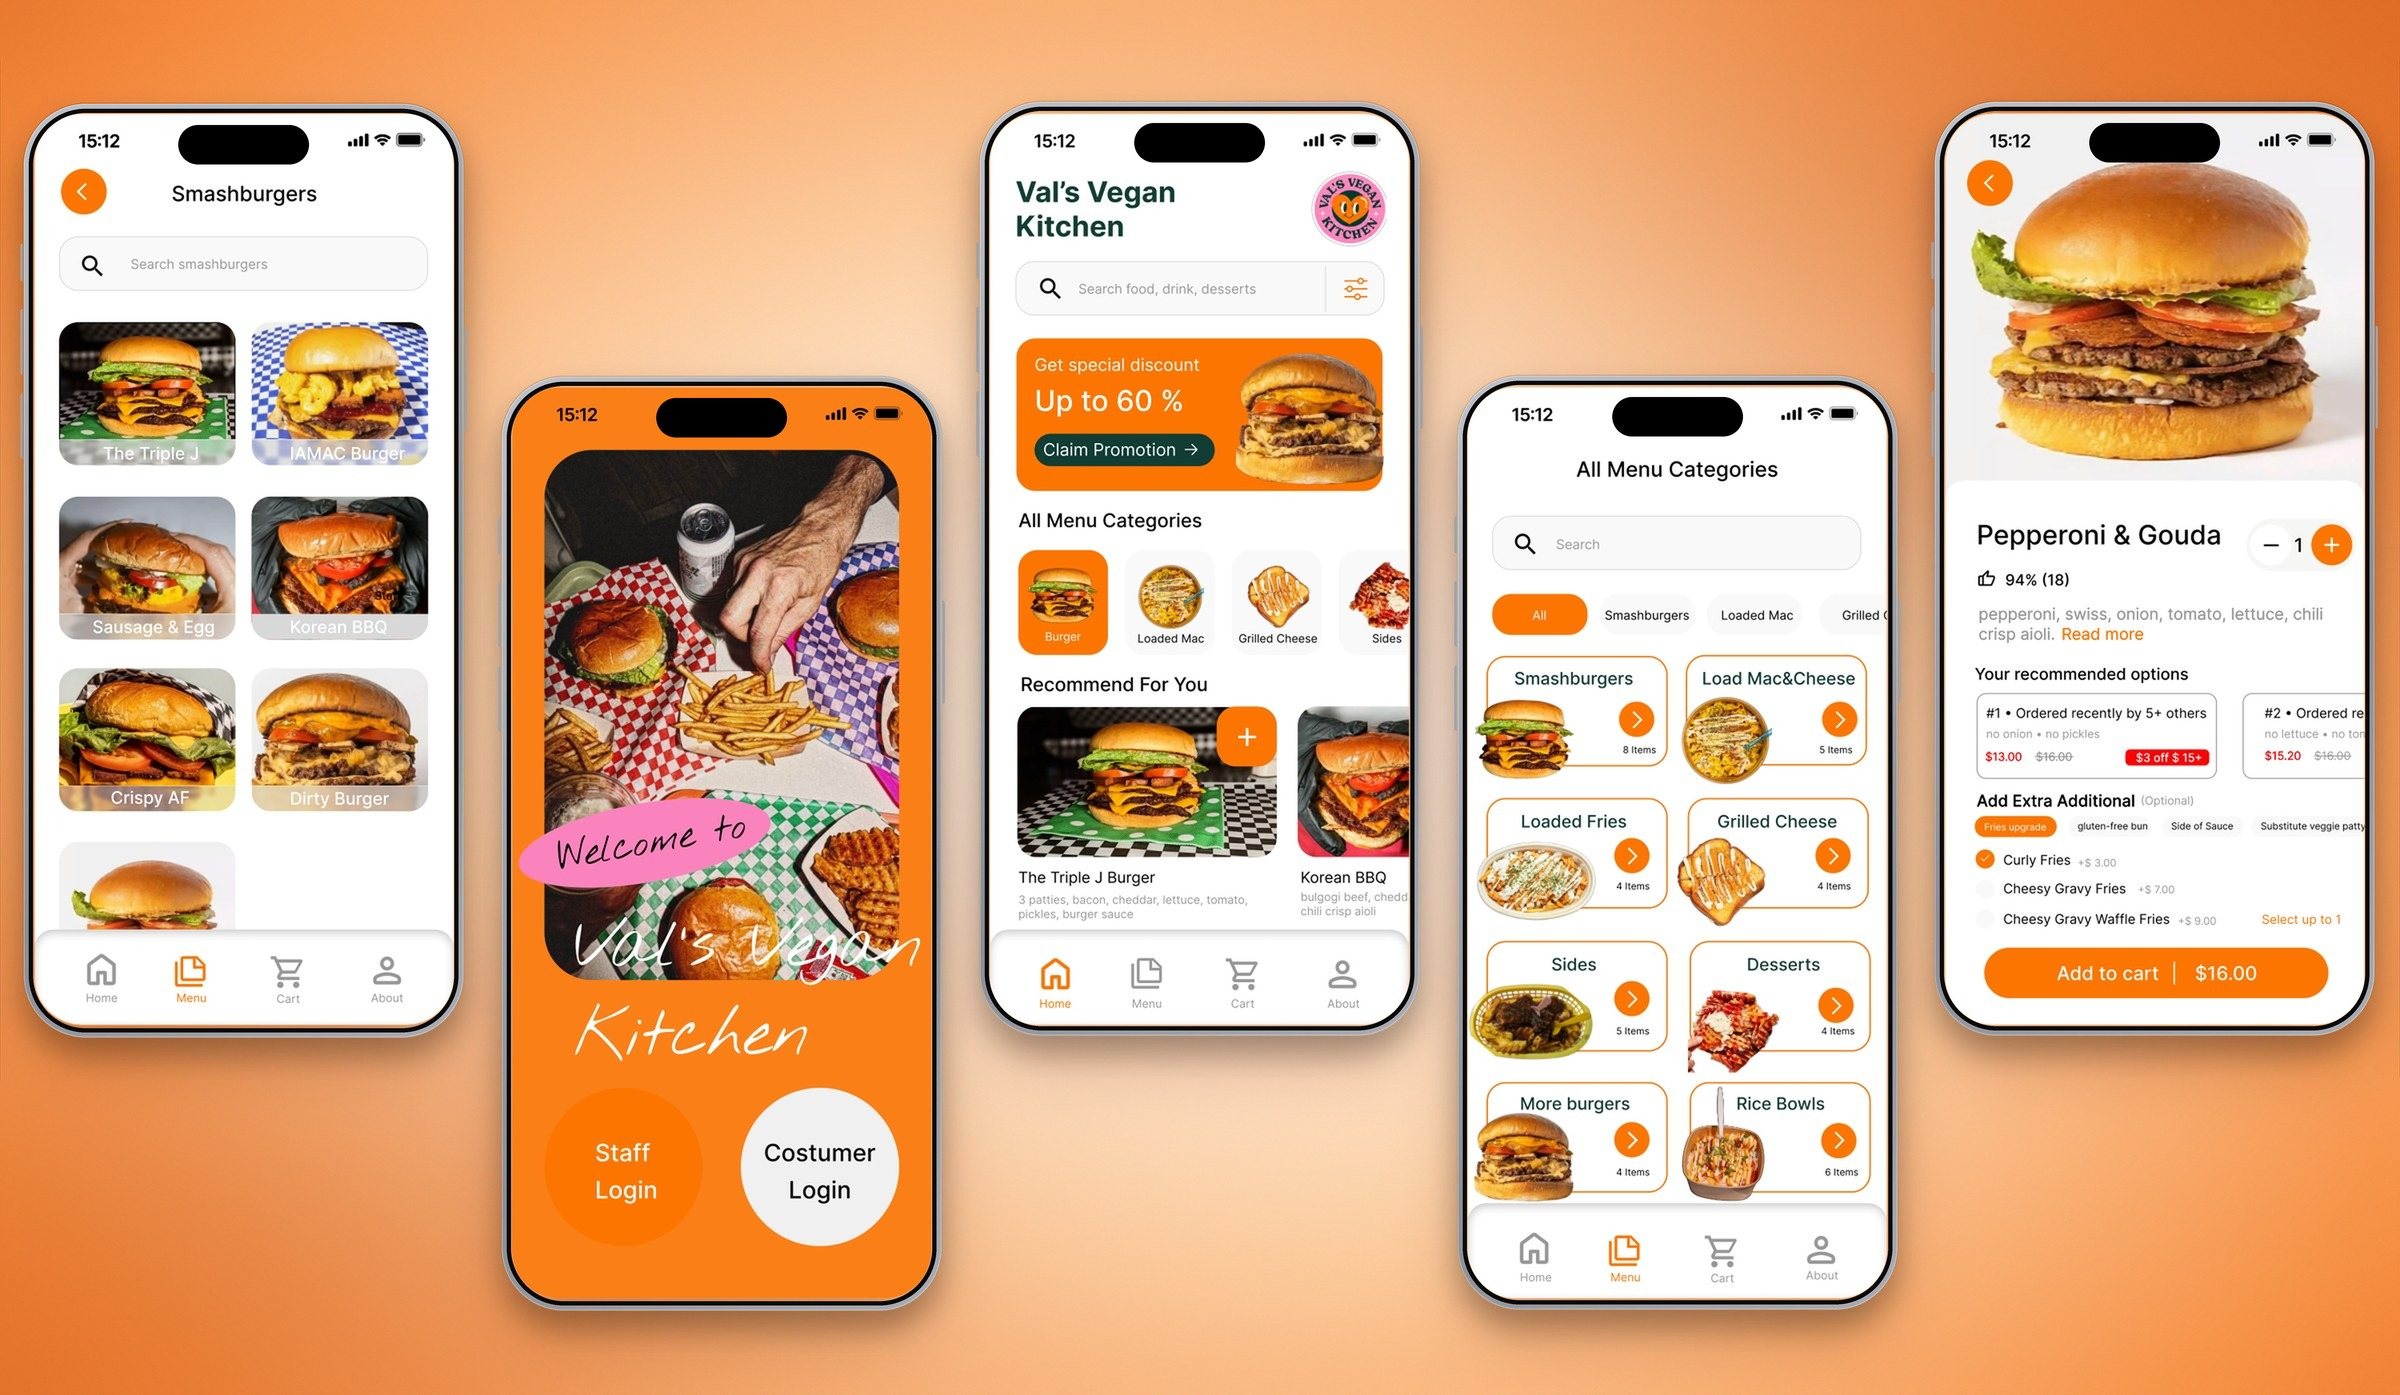
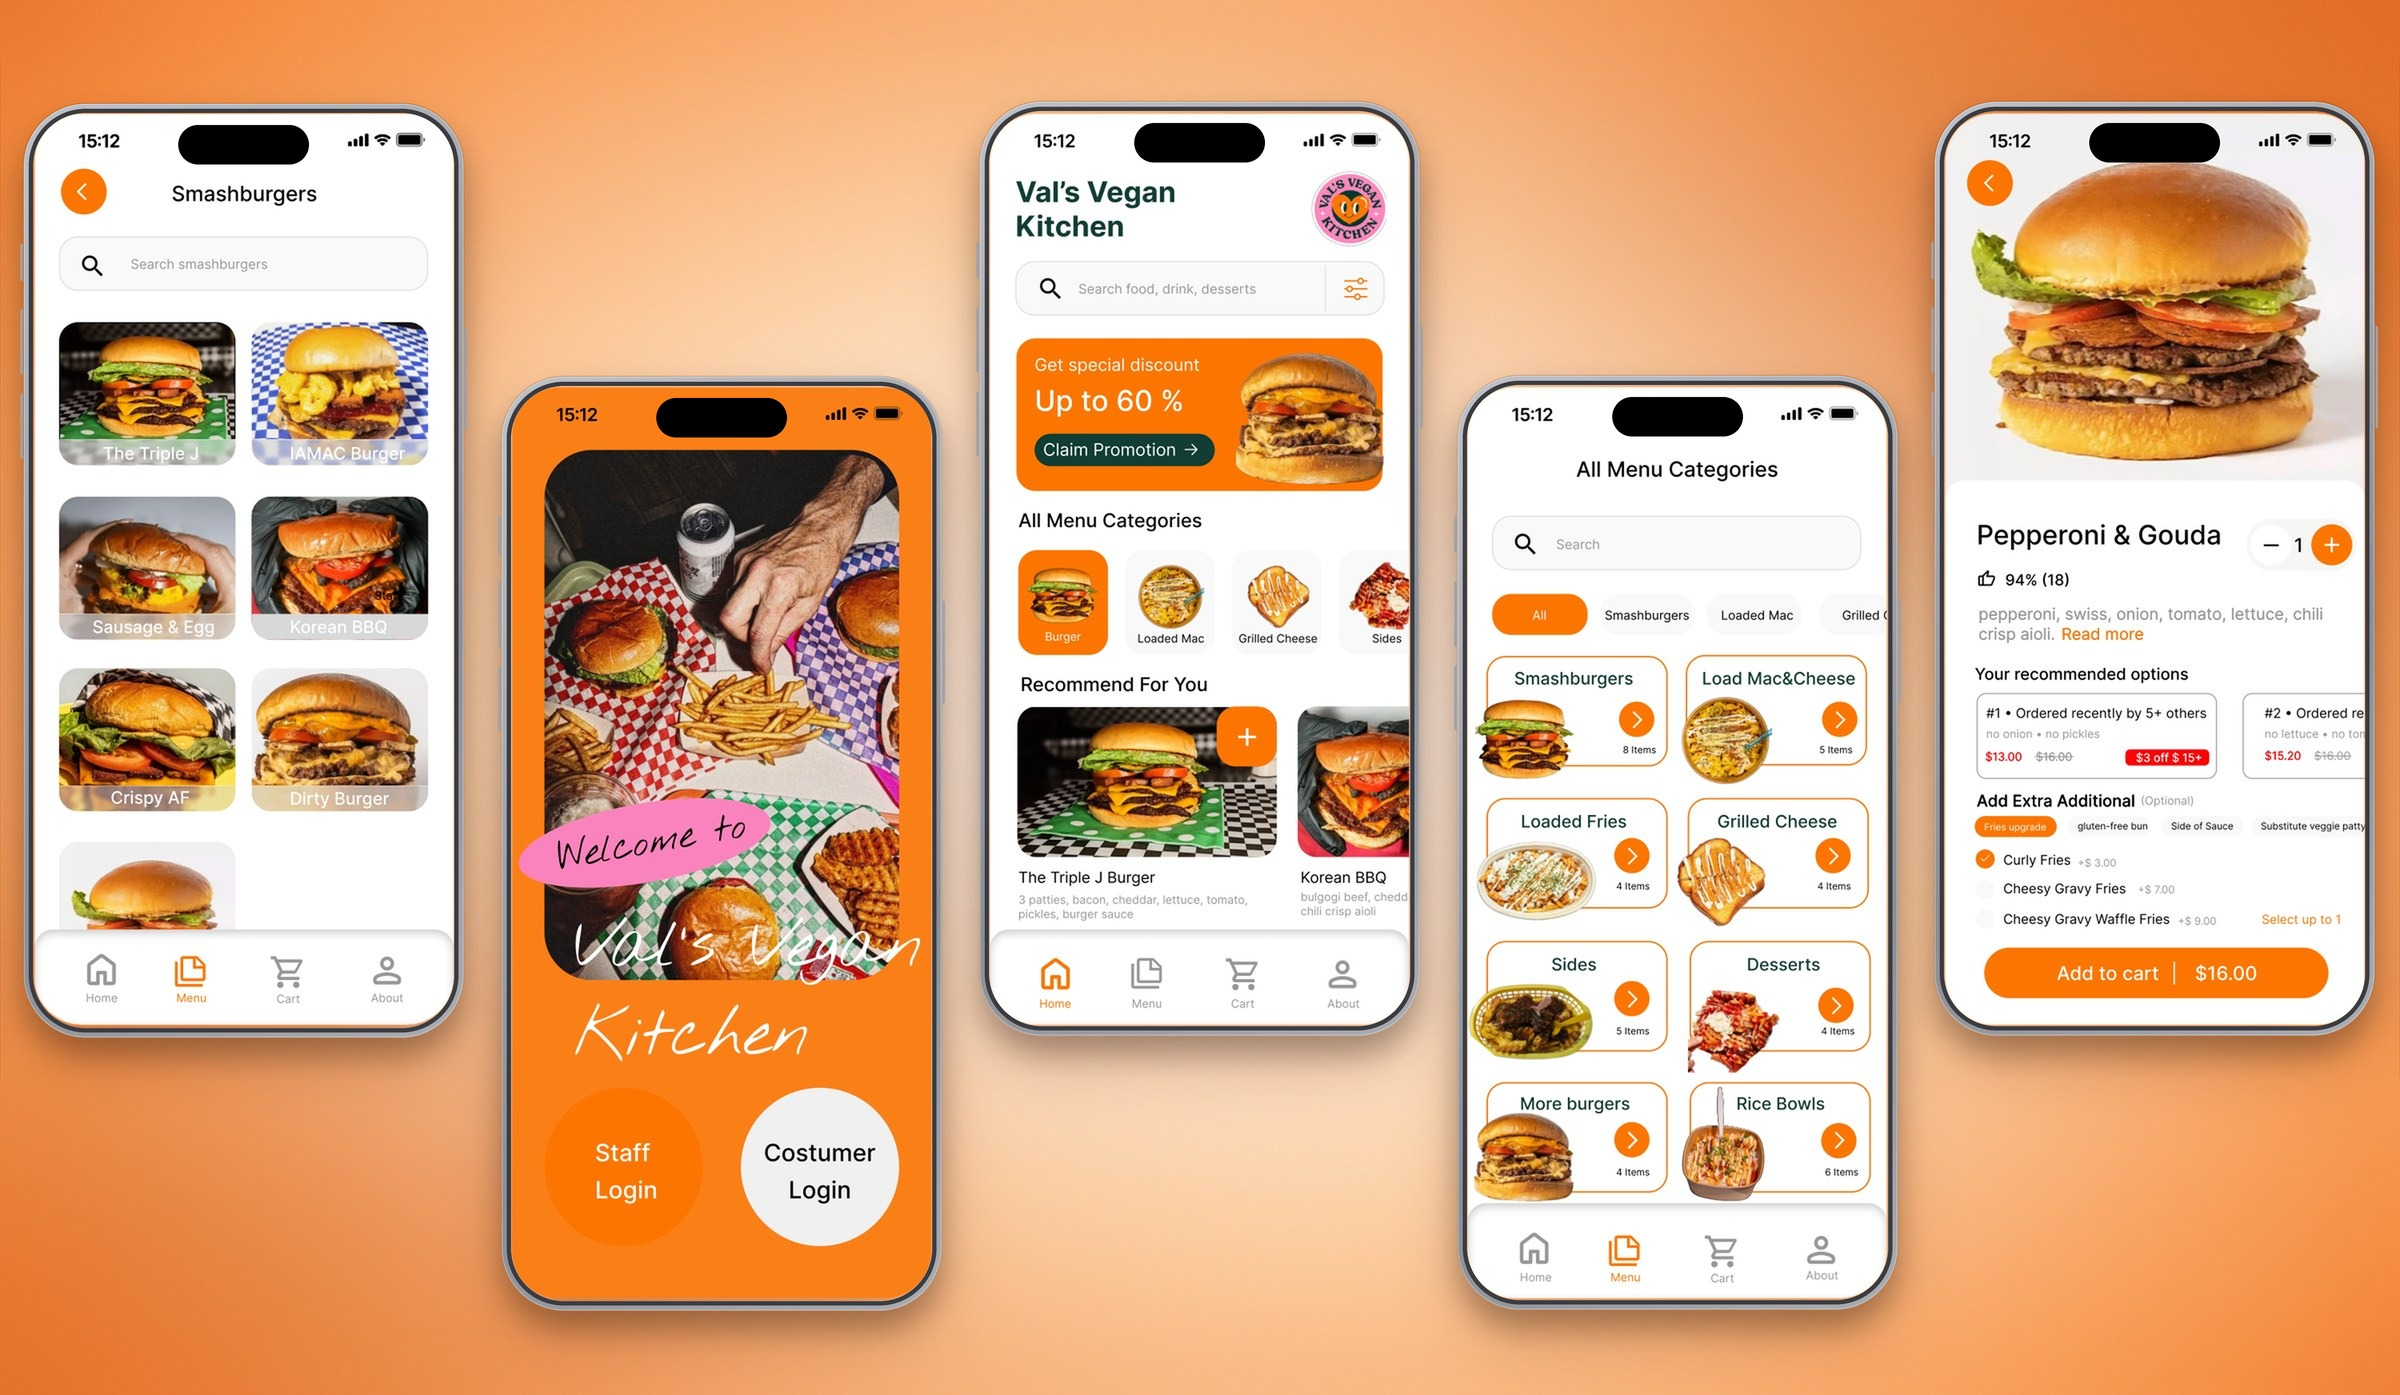
Phone mockups: lighter graphite bezel instead of black (pages and Vegan covers)

diff --git a/components/case/phone-flow.tsx b/components/case/phone-flow.tsx
@@ -53,7 +53,7 @@ export function PhoneDevice({ width, island = false, children }: { width: number
       <span aria-hidden className="btn l" style={{ left: -2, top: "22%", height: "7%" }} />
       <span aria-hidden className="btn l" style={{ left: -2, top: "31%", height: "7%" }} />
       <span aria-hidden className="btn r" style={{ right: -2, top: "24%", height: "11%" }} />
-      <div className="relative overflow-hidden" style={{ padding: BEZEL, borderRadius: r + BEZEL, background: "#0a0a0c" }}>
+      <div className="relative overflow-hidden" style={{ padding: BEZEL, borderRadius: r + BEZEL, background: "#3a3c41" }}>
         <div className="relative overflow-hidden" style={{ borderRadius: r }}>
           {children}
           {island && (
